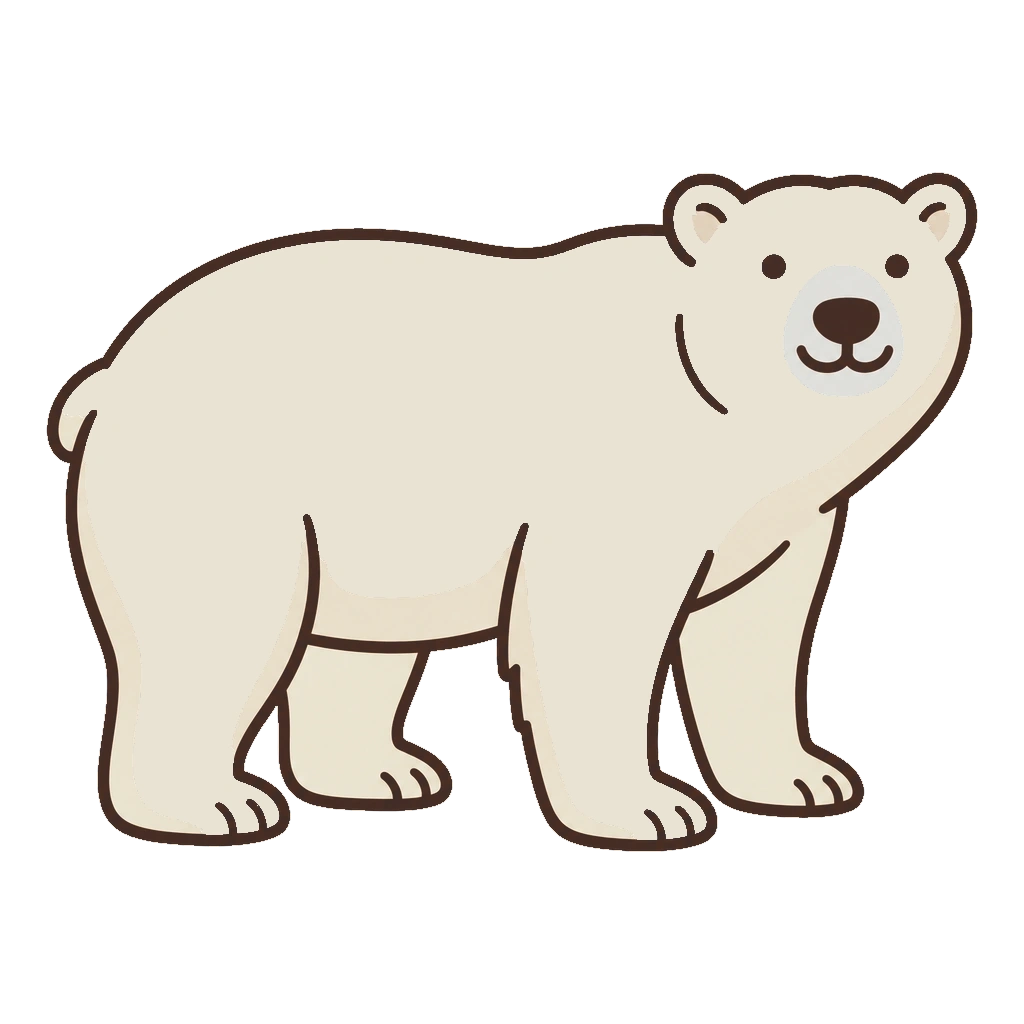
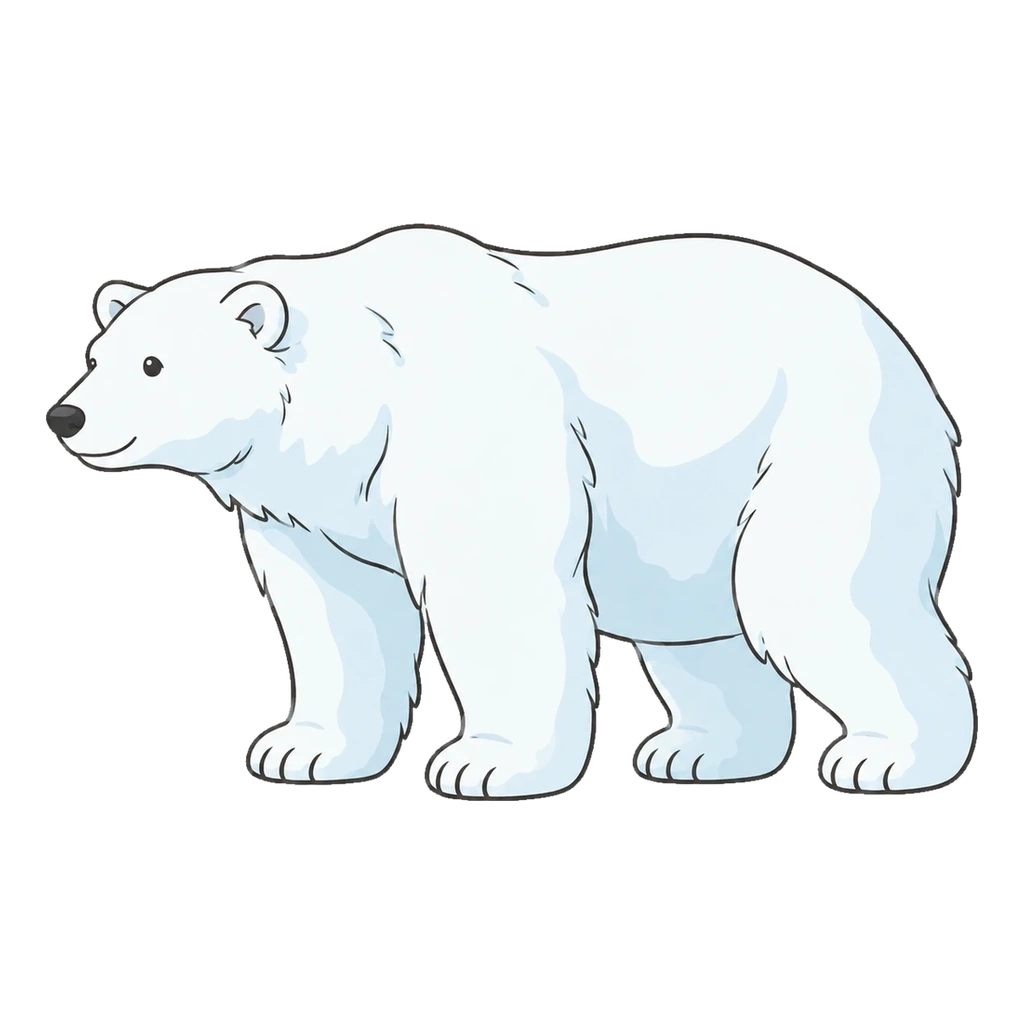
북극곰 그림 바꿈(선생님: 예전 크림색·굵은 선이 극지에서 튐) — 008·009도 같이 쓰므로 008 FACE 'L'·BB·masks.json·places.json 맞춤, 예전 그림은 _trash
Claude-Session: https://claude.ai/code/session_01Wjm5odDztZjFxSTcCxJegg

diff --git a/008/animal-home-beta.html b/008/animal-home-beta.html
@@ -1468,7 +1468,7 @@ const bigOf=list=>list.reduce((m,a)=>realOf(a)>realOf(m)?a:m,list[0]);
 function relSizeH(list,a,lo){ const m=Math.max(...list.map(realOf)); return Math.max(lo==null?0.3:lo,Math.pow(realOf(a)/m,0.55)); }
 const standsOn=p=>['walk','slide','dig'].includes(MOVE[p]);
 /* 그림마다 동물이 차지하는 폭·높이(512 칸 대비). 그려진 동물의 가장 긴 쪽이 실제 크기에 맞게 그림 칸을 정함 */
-const BB={"코뿔소":[0.91,0.65],"치타":[0.91, 0.69],"하이에나":[0.91, 0.84],"타조":[0.73,0.91],"가젤":[0.66, 0.91],"물소":[0.91,0.65],"방울뱀":[0.91, 0.82],"사막쥐":[0.91, 0.47],"북극여우":[0.91, 0.73],"바다코끼리":[0.91,0.7],"순록":[0.74,0.91],"흰올빼미":[0.77, 0.91],"북극토끼":[0.66, 0.91],"사향소":[0.91,0.66],"북극늑대":[0.91, 0.78],"쇠똥구리":[0.91, 0.6],"오릭스":[0.71,0.91],"멧돼지":[0.91,0.66],"바다거북":[0.91, 0.67],"돌고래":[0.91,0.65],"갯우렁이":[0.91, 0.63],"맛조개":[0.91, 0.54],"도요새":[0.91, 0.77],"방게":[0.91, 0.66],"메기":[0.91, 0.62],"고등어":[0.91, 0.46],"송사리":[0.91, 0.33],"다슬기":[0.87, 0.91],"소라":[0.91, 0.83],"칠게":[0.91, 0.73],"농게":[0.91, 0.6],"짱뚱어":[0.91, 0.56],"낙지":[0.91, 0.79],"갯지렁이":[0.91, 0.31],"산양":[0.84,0.91],"도마뱀":[0.91, 0.74],"사막거북":[0.91, 0.65],"미어캣":[0.48, 0.91],"제비":[0.91, 0.79],"박새":[0.91, 0.66],"닭":[0.71, 0.9],"너구리":[0.89, 0.66],"개":[0.91,0.9],"고양이":[0.84,0.91],"토끼":[0.85,0.91],"소":[0.91,0.72],"돼지":[0.91,0.63],"말":[0.91,0.89],"코끼리":[0.91,0.73],"사자":[0.91,0.81],"호랑이":[0.91,0.58],"기린":[0.73,0.91],"곰":[0.91,0.67],"사슴":[0.72,0.91],"물고기":[0.92,0.65],"붕어":[0.91,0.57],"조개":[0.91,0.7],"새우":[0.92,0.7],"달팽이":[0.91,0.62],"거미":[0.92,0.85],"참새":[0.92,0.79],"까치":[0.91,0.76],"독수리":[0.65,0.91],"나비":[0.91,0.67],"잠자리":[0.91,0.59],"다람쥐":[0.78,0.91],"여우":[0.91,0.91],"원숭이":[0.82,0.91],"낙타":[0.91,0.85],"펭귄":[0.59,0.91],"하마":[0.91,0.68],"개구리":[0.91,0.89],"악어":[0.91,0.5],"고래":[0.91,0.58],"상어":[0.91,0.48],"문어":[0.91,0.79],"오징어":[0.91,0.88],"해파리":[0.68,0.91],"불가사리":[0.91,0.86],"바다표범":[0.91,0.49],"북극곰":[0.91,0.64],"두더지":[0.91,0.5],"지렁이":[0.91,0.44],"땅강아지":[0.91,0.48],"비둘기":[0.91,0.9],"벌":[0.91,0.8],"부엉이":[0.57,0.91],"딱따구리":[0.46,0.91],"얼룩말":[0.91,0.84],"전갈":[0.91,0.91],"사막여우":[0.78,0.91],"소금쟁이":[0.91,0.79],"물방개":[0.75,0.91],"수달":[0.91,0.58],"우렁이":[0.91,0.73],"백로":[0.72,0.91],"미꾸라지":[0.91,0.27]};
+const BB={"코뿔소":[0.91,0.65],"치타":[0.91, 0.69],"하이에나":[0.91, 0.84],"타조":[0.73,0.91],"가젤":[0.66, 0.91],"물소":[0.91,0.65],"방울뱀":[0.91, 0.82],"사막쥐":[0.91, 0.47],"북극여우":[0.91, 0.73],"바다코끼리":[0.91,0.7],"순록":[0.74,0.91],"흰올빼미":[0.77, 0.91],"북극토끼":[0.66, 0.91],"사향소":[0.91,0.66],"북극늑대":[0.91, 0.78],"쇠똥구리":[0.91, 0.6],"오릭스":[0.71,0.91],"멧돼지":[0.91,0.66],"바다거북":[0.91, 0.67],"돌고래":[0.91,0.65],"갯우렁이":[0.91, 0.63],"맛조개":[0.91, 0.54],"도요새":[0.91, 0.77],"방게":[0.91, 0.66],"메기":[0.91, 0.62],"고등어":[0.91, 0.46],"송사리":[0.91, 0.33],"다슬기":[0.87, 0.91],"소라":[0.91, 0.83],"칠게":[0.91, 0.73],"농게":[0.91, 0.6],"짱뚱어":[0.91, 0.56],"낙지":[0.91, 0.79],"갯지렁이":[0.91, 0.31],"산양":[0.84,0.91],"도마뱀":[0.91, 0.74],"사막거북":[0.91, 0.65],"미어캣":[0.48, 0.91],"제비":[0.91, 0.79],"박새":[0.91, 0.66],"닭":[0.71, 0.9],"너구리":[0.89, 0.66],"개":[0.91,0.9],"고양이":[0.84,0.91],"토끼":[0.85,0.91],"소":[0.91,0.72],"돼지":[0.91,0.63],"말":[0.91,0.89],"코끼리":[0.91,0.73],"사자":[0.91,0.81],"호랑이":[0.91,0.58],"기린":[0.73,0.91],"곰":[0.91,0.67],"사슴":[0.72,0.91],"물고기":[0.92,0.65],"붕어":[0.91,0.57],"조개":[0.91,0.7],"새우":[0.92,0.7],"달팽이":[0.91,0.62],"거미":[0.92,0.85],"참새":[0.92,0.79],"까치":[0.91,0.76],"독수리":[0.65,0.91],"나비":[0.91,0.67],"잠자리":[0.91,0.59],"다람쥐":[0.78,0.91],"여우":[0.91,0.91],"원숭이":[0.82,0.91],"낙타":[0.91,0.85],"펭귄":[0.59,0.91],"하마":[0.91,0.68],"개구리":[0.91,0.89],"악어":[0.91,0.5],"고래":[0.91,0.58],"상어":[0.91,0.48],"문어":[0.91,0.79],"오징어":[0.91,0.88],"해파리":[0.68,0.91],"불가사리":[0.91,0.86],"바다표범":[0.91,0.49],"북극곰":[0.91,0.56],"두더지":[0.91,0.5],"지렁이":[0.91,0.44],"땅강아지":[0.91,0.48],"비둘기":[0.91,0.9],"벌":[0.91,0.8],"부엉이":[0.57,0.91],"딱따구리":[0.46,0.91],"얼룩말":[0.91,0.84],"전갈":[0.91,0.91],"사막여우":[0.78,0.91],"소금쟁이":[0.91,0.79],"물방개":[0.75,0.91],"수달":[0.91,0.58],"우렁이":[0.91,0.73],"백로":[0.72,0.91],"미꾸라지":[0.91,0.27]};
 /* t = 그려진 동물의 가장 긴 쪽(px) → 그림 칸 크기 */
 function boxOf(a,p,t){ const b=BB[a]||[.9,.9]; return t/Math.max(b[0],b[1]); }
 /* 장면 안에 동물 놓기. 가장 큰 동물(ref 전체에서)은 장면을 크게 채우고, 나머지는 실제 크기 비율로 작게(같은 거리에 선 것처럼).
@@ -1785,7 +1785,7 @@ const SCALEFREE=new Set('stones tinypebbles pebblemound algaepebbles seapebbles 
 let PLIST=null, SUBWL=null, HFLIP=false;   /* HFLIP: 놓는 동안 그 동물 그림을 좌우로 뒤집었는지(머리가 나올 쪽을 보게) */   /* SUBWL: 물에 잠긴 동물의 물낯 높이(동물 칸 크기 1 기준) — 놓는 동안만 */   /* 지금 동물이 쓸 소품 목록(사는 자리가 있으면 그 목록) */
 /* 그림 속 동물 머리가 어느 쪽인지(L 왼쪽 · R 오른쪽, 없으면 앞을 봄 — 2026-11-02 그림과 하나씩 맞춤: 악어·고래·딱따구리·미꾸라지가 거꾸로 적혀 꼬리부터 나왔음) — 가장자리에서 내밀 때 머리가 화면 안쪽을 보게 좌우를 뒤집음 */
 const FACE={코뿔소:'R',치타:'R',하이에나:'R',타조:'R',가젤:'R',물소:'L',방울뱀:'R',사막쥐:'L',북극여우:'R',바다코끼리:'L',순록:'L',북극토끼:'R',사향소:'R',북극늑대:'R',쇠똥구리:'L',오릭스:'L',멧돼지:'L',바다거북:'R',돌고래:'R',갯우렁이:'R',도요새:'R',닭:'R',너구리:'R',메기:'L',고등어:'L',송사리:'L',짱뚱어:'L',갯지렁이:'R',산양:'L',도마뱀:'R',사막거북:'R',제비:'R',박새:'L',개:'L',고양이:'L',토끼:'R',소:'L',돼지:'L',말:'R',코끼리:'L',사자:'L',호랑이:'R',기린:'R',곰:'R',물고기:'L',붕어:'L',새우:'L',달팽이:'L',
-  참새:'R',까치:'R',독수리:'L',다람쥐:'L',여우:'L',낙타:'L',펭귄:'R',하마:'L',악어:'L',고래:'L',상어:'L',바다표범:'R',북극곰:'R',두더지:'R',
+  참새:'R',까치:'R',독수리:'L',다람쥐:'L',여우:'L',낙타:'L',펭귄:'R',하마:'L',악어:'L',고래:'L',상어:'L',바다표범:'R',북극곰:'L',두더지:'R',
   땅강아지:'R',비둘기:'R',딱따구리:'R',얼룩말:'R',전갈:'L',수달:'R',우렁이:'L',백로:'R',미꾸라지:'L',지렁이:'R',사슴:'L',벌:'R',사막여우:'R'};
 /* 가장자리에서 내밀기(2026-11-01): 큰 동물의 몸을 화면 옆 밖으로 밀고, 화면 가장자리 가까이 놓인 (동물보다 작은) 소품 뒤에서 머리 쪽만 조금 내밀게.
    돌려줌: 동물 가운데(x,y)·뒤집기·소품 자리, 또는 못 하면 null. 실제 크기는 같은 규칙(보통 높이 ±25%) */

diff --git a/008/animal-home.html b/008/animal-home.html
@@ -980,7 +980,7 @@ const bigOf=list=>list.reduce((m,a)=>realOf(a)>realOf(m)?a:m,list[0]);
 function relSizeH(list,a,lo){ const m=Math.max(...list.map(realOf)); return Math.max(lo==null?0.3:lo,Math.pow(realOf(a)/m,0.55)); }
 const standsOn=p=>['walk','slide','dig'].includes(MOVE[p]);
 /* 그림마다 동물이 차지하는 폭·높이(512 칸 대비). 그려진 동물의 가장 긴 쪽이 실제 크기에 맞게 그림 칸을 정함 */
-const BB={"코뿔소":[0.91,0.65],"치타":[0.91, 0.69],"하이에나":[0.91, 0.84],"타조":[0.73,0.91],"가젤":[0.66, 0.91],"물소":[0.91,0.65],"방울뱀":[0.91, 0.82],"사막쥐":[0.91, 0.47],"북극여우":[0.91, 0.73],"바다코끼리":[0.91,0.7],"순록":[0.74,0.91],"흰올빼미":[0.77, 0.91],"북극토끼":[0.66, 0.91],"사향소":[0.91,0.66],"북극늑대":[0.91, 0.78],"쇠똥구리":[0.91, 0.6],"오릭스":[0.71,0.91],"멧돼지":[0.91,0.66],"바다거북":[0.91, 0.67],"돌고래":[0.91,0.65],"갯우렁이":[0.91, 0.63],"맛조개":[0.91, 0.54],"도요새":[0.91, 0.77],"방게":[0.91, 0.66],"메기":[0.91, 0.62],"고등어":[0.91, 0.46],"송사리":[0.91, 0.33],"다슬기":[0.87, 0.91],"소라":[0.91, 0.83],"칠게":[0.91, 0.73],"농게":[0.91, 0.6],"짱뚱어":[0.91, 0.56],"낙지":[0.91, 0.79],"갯지렁이":[0.91, 0.31],"산양":[0.84,0.91],"도마뱀":[0.91, 0.74],"사막거북":[0.91, 0.65],"미어캣":[0.48, 0.91],"제비":[0.91, 0.79],"박새":[0.91, 0.66],"닭":[0.71, 0.9],"너구리":[0.89, 0.66],"개":[0.91,0.9],"고양이":[0.84,0.91],"토끼":[0.85,0.91],"소":[0.91,0.72],"돼지":[0.91,0.63],"말":[0.91,0.89],"코끼리":[0.91,0.73],"사자":[0.91,0.81],"호랑이":[0.91,0.58],"기린":[0.73,0.91],"곰":[0.91,0.67],"사슴":[0.72,0.91],"물고기":[0.92,0.65],"붕어":[0.91,0.57],"조개":[0.91,0.7],"새우":[0.92,0.7],"달팽이":[0.91,0.62],"거미":[0.92,0.85],"참새":[0.92,0.79],"까치":[0.91,0.76],"독수리":[0.65,0.91],"나비":[0.91,0.67],"잠자리":[0.91,0.59],"다람쥐":[0.78,0.91],"여우":[0.91,0.91],"원숭이":[0.82,0.91],"낙타":[0.91,0.85],"펭귄":[0.59,0.91],"하마":[0.91,0.68],"개구리":[0.91,0.89],"악어":[0.91,0.5],"고래":[0.91,0.58],"상어":[0.91,0.48],"문어":[0.91,0.79],"오징어":[0.91,0.88],"해파리":[0.68,0.91],"불가사리":[0.91,0.86],"바다표범":[0.91,0.49],"북극곰":[0.91,0.64],"두더지":[0.91,0.5],"지렁이":[0.91,0.44],"땅강아지":[0.91,0.48],"비둘기":[0.91,0.9],"벌":[0.91,0.8],"부엉이":[0.57,0.91],"딱따구리":[0.46,0.91],"얼룩말":[0.91,0.84],"전갈":[0.91,0.91],"사막여우":[0.78,0.91],"소금쟁이":[0.91,0.79],"물방개":[0.75,0.91],"수달":[0.91,0.58],"우렁이":[0.91,0.73],"백로":[0.72,0.91],"미꾸라지":[0.91,0.27]};
+const BB={"코뿔소":[0.91,0.65],"치타":[0.91, 0.69],"하이에나":[0.91, 0.84],"타조":[0.73,0.91],"가젤":[0.66, 0.91],"물소":[0.91,0.65],"방울뱀":[0.91, 0.82],"사막쥐":[0.91, 0.47],"북극여우":[0.91, 0.73],"바다코끼리":[0.91,0.7],"순록":[0.74,0.91],"흰올빼미":[0.77, 0.91],"북극토끼":[0.66, 0.91],"사향소":[0.91,0.66],"북극늑대":[0.91, 0.78],"쇠똥구리":[0.91, 0.6],"오릭스":[0.71,0.91],"멧돼지":[0.91,0.66],"바다거북":[0.91, 0.67],"돌고래":[0.91,0.65],"갯우렁이":[0.91, 0.63],"맛조개":[0.91, 0.54],"도요새":[0.91, 0.77],"방게":[0.91, 0.66],"메기":[0.91, 0.62],"고등어":[0.91, 0.46],"송사리":[0.91, 0.33],"다슬기":[0.87, 0.91],"소라":[0.91, 0.83],"칠게":[0.91, 0.73],"농게":[0.91, 0.6],"짱뚱어":[0.91, 0.56],"낙지":[0.91, 0.79],"갯지렁이":[0.91, 0.31],"산양":[0.84,0.91],"도마뱀":[0.91, 0.74],"사막거북":[0.91, 0.65],"미어캣":[0.48, 0.91],"제비":[0.91, 0.79],"박새":[0.91, 0.66],"닭":[0.71, 0.9],"너구리":[0.89, 0.66],"개":[0.91,0.9],"고양이":[0.84,0.91],"토끼":[0.85,0.91],"소":[0.91,0.72],"돼지":[0.91,0.63],"말":[0.91,0.89],"코끼리":[0.91,0.73],"사자":[0.91,0.81],"호랑이":[0.91,0.58],"기린":[0.73,0.91],"곰":[0.91,0.67],"사슴":[0.72,0.91],"물고기":[0.92,0.65],"붕어":[0.91,0.57],"조개":[0.91,0.7],"새우":[0.92,0.7],"달팽이":[0.91,0.62],"거미":[0.92,0.85],"참새":[0.92,0.79],"까치":[0.91,0.76],"독수리":[0.65,0.91],"나비":[0.91,0.67],"잠자리":[0.91,0.59],"다람쥐":[0.78,0.91],"여우":[0.91,0.91],"원숭이":[0.82,0.91],"낙타":[0.91,0.85],"펭귄":[0.59,0.91],"하마":[0.91,0.68],"개구리":[0.91,0.89],"악어":[0.91,0.5],"고래":[0.91,0.58],"상어":[0.91,0.48],"문어":[0.91,0.79],"오징어":[0.91,0.88],"해파리":[0.68,0.91],"불가사리":[0.91,0.86],"바다표범":[0.91,0.49],"북극곰":[0.91,0.56],"두더지":[0.91,0.5],"지렁이":[0.91,0.44],"땅강아지":[0.91,0.48],"비둘기":[0.91,0.9],"벌":[0.91,0.8],"부엉이":[0.57,0.91],"딱따구리":[0.46,0.91],"얼룩말":[0.91,0.84],"전갈":[0.91,0.91],"사막여우":[0.78,0.91],"소금쟁이":[0.91,0.79],"물방개":[0.75,0.91],"수달":[0.91,0.58],"우렁이":[0.91,0.73],"백로":[0.72,0.91],"미꾸라지":[0.91,0.27]};
 /* t = 그려진 동물의 가장 긴 쪽(px) → 그림 칸 크기 */
 function boxOf(a,p,t){ const b=BB[a]||[.9,.9]; return t/Math.max(b[0],b[1]); }
 /* 장면 안에 동물 놓기. 가장 큰 동물(ref 전체에서)은 장면을 크게 채우고, 나머지는 실제 크기 비율로 작게(같은 거리에 선 것처럼).
@@ -1288,7 +1288,7 @@ const SCALEFREE=new Set('stones tinypebbles pebblemound algaepebbles seapebbles 
 let PLIST=null, SUBWL=null, HFLIP=false;   /* HFLIP: 놓는 동안 그 동물 그림을 좌우로 뒤집었는지(머리가 나올 쪽을 보게) */   /* SUBWL: 물에 잠긴 동물의 물낯 높이(동물 칸 크기 1 기준) — 놓는 동안만 */   /* 지금 동물이 쓸 소품 목록(사는 자리가 있으면 그 목록) */
 /* 그림 속 동물 머리가 어느 쪽인지(L 왼쪽 · R 오른쪽, 없으면 앞을 봄 — 2026-11-02 그림과 하나씩 맞춤: 악어·고래·딱따구리·미꾸라지가 거꾸로 적혀 꼬리부터 나왔음) — 가장자리에서 내밀 때 머리가 화면 안쪽을 보게 좌우를 뒤집음 */
 const FACE={코뿔소:'R',치타:'R',하이에나:'R',타조:'R',가젤:'R',물소:'L',방울뱀:'R',사막쥐:'L',북극여우:'R',바다코끼리:'L',순록:'L',북극토끼:'R',사향소:'R',북극늑대:'R',쇠똥구리:'L',오릭스:'L',멧돼지:'L',바다거북:'R',돌고래:'R',갯우렁이:'R',도요새:'R',닭:'R',너구리:'R',메기:'L',고등어:'L',송사리:'L',짱뚱어:'L',갯지렁이:'R',산양:'L',도마뱀:'R',사막거북:'R',제비:'R',박새:'L',개:'L',고양이:'L',토끼:'R',소:'L',돼지:'L',말:'R',코끼리:'L',사자:'L',호랑이:'R',기린:'R',곰:'R',물고기:'L',붕어:'L',새우:'L',달팽이:'L',
-  참새:'R',까치:'R',독수리:'L',다람쥐:'L',여우:'L',낙타:'L',펭귄:'R',하마:'L',악어:'L',고래:'L',상어:'L',바다표범:'R',북극곰:'R',두더지:'R',
+  참새:'R',까치:'R',독수리:'L',다람쥐:'L',여우:'L',낙타:'L',펭귄:'R',하마:'L',악어:'L',고래:'L',상어:'L',바다표범:'R',북극곰:'L',두더지:'R',
   땅강아지:'R',비둘기:'R',딱따구리:'R',얼룩말:'R',전갈:'L',수달:'R',우렁이:'L',백로:'R',미꾸라지:'L',지렁이:'R',사슴:'L',벌:'R',사막여우:'R'};
 /* 가장자리에서 내밀기(2026-11-01): 큰 동물의 몸을 화면 옆 밖으로 밀고, 화면 가장자리 가까이 놓인 (동물보다 작은) 소품 뒤에서 머리 쪽만 조금 내밀게.
    돌려줌: 동물 가운데(x,y)·뒤집기·소품 자리, 또는 못 하면 null. 실제 크기는 같은 규칙(보통 높이 ±25%) */
